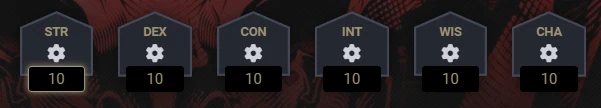
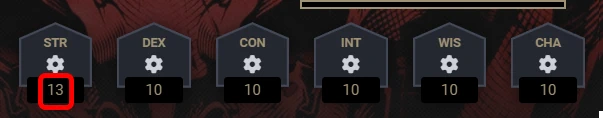
Quartz sync: Jul 15, 2024, 6:46 PM

diff --git a/quartz/components/SideFooter.tsx b/quartz/components/SideFooter.tsx
@@ -17,7 +17,7 @@ export default ((opts?: Options) => {
 		<h3>Next Session: Tuesday, July 23 @7:00pm CT</h3>
 
 		<h4 style="text-align: left; width:49%; display: inline-block;">Navigation</h4>
-		<h4 style="text-align: right; width:50%;  display: inline-block;">v0.51.90f</h4>
+		<h4 style="text-align: right; width:50%;  display: inline-block;">v0.51.90g</h4>
 		
           {Object.entries(linksSide).map(([text, linksSide]) => (
               <br><a href={linksSide}>{text}</a></br>

diff --git a/content/World/Misc/FoundryVTT Setup.md b/content/World/Misc/FoundryVTT Setup.md
@@ -22,30 +22,31 @@ version: "1.0"
 
 -----------------
 
+![[FoundryVTT6.webp|left|192]]
 4. Click on the *Edit* button in the top left of your character sheet.
-
-![[FoundryVTT6.webp|center|192]]
 
 ------------
 
 5. On the right sidepanel, click the *Chatlog* tab. At the bottom, enter */r 5d6* to roll 4 six-sided die for your character stats.
 
-![[FoundryVTT11.webp|300]]![[FoundryVTT12.webp|300]]![[FoundryVTT13.webp|300]]
+![[FoundryVTT11.webp|350]]![[FoundryVTT12.webp|400]]![[FoundryVTT13.webp|400]]
 
 -------------
 
 6. Expand the dice-roll message by clicking the *expand* arrow. This will show the individual dice results. Take the sum of the highest 3 dice and input the value into your character sheet's ability scores. Repeat steps 5-6 a total of **six** times, for your *Strength, Dexterity, Constitution, Intelligence, Wisdom, and Charisma*.
 
-![[FoundryVTT14.webp|300]]![[FoundryVTT15.webp|600]]
+![[FoundryVTT14.webp|400]]![[FoundryVTT15.webp|700]]
+
+In this example, we will take the highest 3 rolls: *6+3+3=12* and apply it to our *Strength* ability.
 
 ----------
 
+![[FoundryVTT7.webp|left|300]]
 7. On the right sidepanel, click on the *Compendiums* tab and enter the *5e.tools* folder.
-![[FoundryVTT7.webp|250]]
 
 ------------
 
-8. Start by opening the *Races* compendium. This will open a new popout where you can search for your character's desired race. Click and drag from the popout directly onto your *character sheet*.
+8. Open the *Races* compendium. This will open a new popout where you can search for your character's desired race. Click and drag from the popout directly onto your *character sheet*.
 
 ![[FoundryVTT8.webp|center|512]]
 

diff --git a/content/Changelog.md b/content/Changelog.md
@@ -1,5 +1,5 @@
 ## 2024-07-15
--  18h37 · [[FoundryVTT Setup]]
+-  18h45 · [[FoundryVTT Setup]]
 ## 2024-07-13
 -  13h17 · [[Memories]]
 -  13h17 · [[Session 12.sync-conflict-20240712-135618-44HHYPV]]
